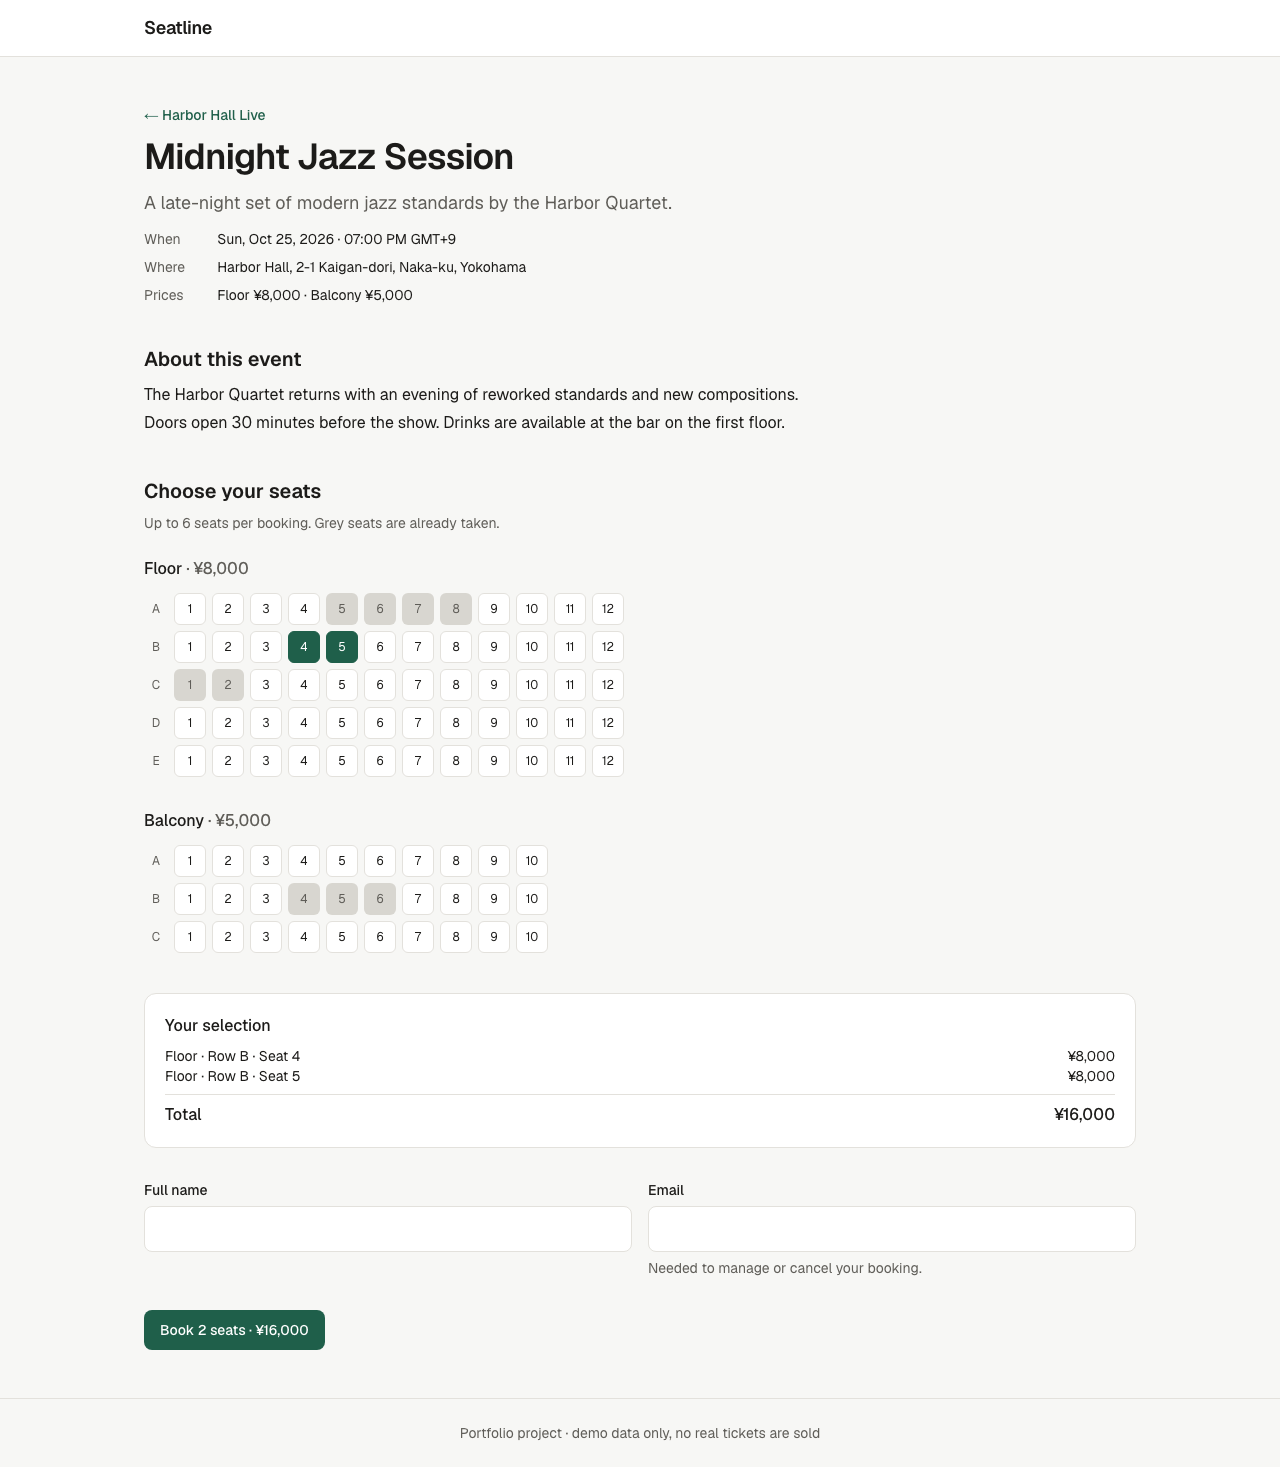
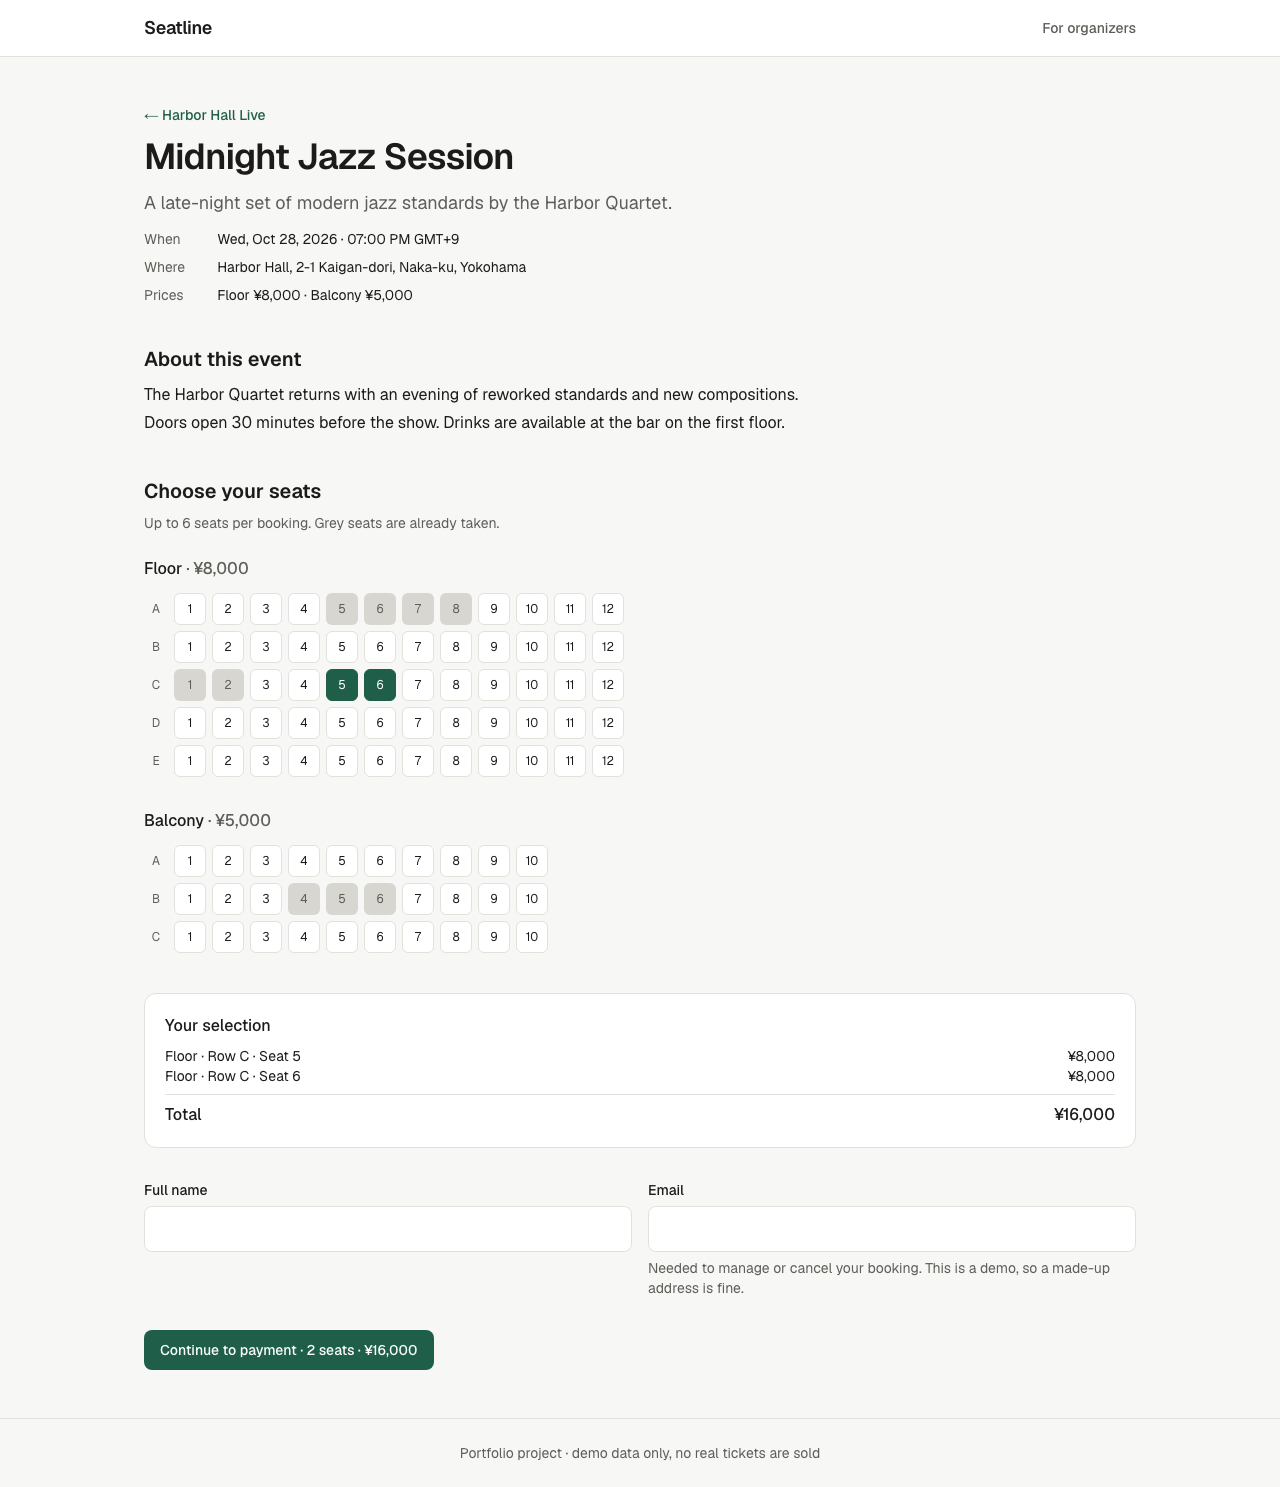
Refresh the screenshots, add a walkthrough and Lighthouse results
- scripts/capture-docs.mjs regenerates every image in docs/ from a seeded
  production build (waits for CSS transitions, phone at 1x pixels)
- docs/demo.webp: animated walkthrough from seats to ticket (97 KB)
- New screenshots of the ticket with its QR code and the dashboard
- README: architecture diagram with payments, webhook, auth and outbox;
  test table, bugs found by the tests, and a performance section that
  explains the SEO 91 (streaming metadata) instead of hiding it

diff --git a/README.md b/README.md
@@ -13,12 +13,18 @@ API: [`/api/v1/openapi.json`](https://event-booking-saas.vercel.app/api/v1/opena
 (demo data, reset every Monday; use any made-up name and email) ·
 Organizer dashboard: [`/login`](https://event-booking-saas.vercel.app/login), demo accounts listed there
 
-![Event page with seat map](docs/event-page-desktop.png)
+![Booking walkthrough: choosing seats, paying on the demo checkout, and the ticket with its QR code](docs/demo.webp)
 
 <details>
-<summary>Mobile view</summary>
+<summary>More screenshots: event page, phone, ticket, organizer dashboard</summary>
+
+![Event page with seat map](docs/event-page-desktop.png)
 
 ![Event page on a phone](docs/event-page-mobile.png)
+
+![Booking confirmation with the ticket QR code and the demo inbox](docs/booking-ticket.png)
+
+![Organizer dashboard with sales per event](docs/dashboard.png)
 
 </details>
 
@@ -53,15 +59,20 @@ flowchart LR
   Browser -->|"GET pages"| Pages["Server Components<br/>(src/app)"]
   Browser -->|"form submit"| Actions["Server Actions<br/>(actions.ts)"]
   Client["API clients"] -->|"JSON over HTTP"| API["REST API<br/>src/app/api/v1"]
-  Pages --> Queries["Cached reads<br/>src/server/queries.ts<br/>'use cache' + cacheTag"]
-  Pages -->|"seat map, never cached"| Repos
-  API --> Queries
+  Stripe(["Stripe"]) -->|"webhook"| Webhook["Webhook<br/>src/app/api/webhooks"]
+  Pages --> Queries["Cached reads<br/>src/server/queries.ts"]
+  Pages -->|"dashboard"| DAL["Data access layer<br/>src/server/auth/dal.ts"]
   API --> Service
+  Actions --> Service["Booking & payment services<br/>src/server/*-service.ts"]
+  Webhook --> Service
+  DAL --> Repos
   Queries --> Repos["Repositories<br/>src/server/repositories"]
-  Actions --> Service["Booking service<br/>src/server/booking-service.ts"]
-  Actions -->|"updateTag after a booking"| Queries
-  Repos --> DB[(PostgreSQL)]
-  Service -->|"transaction"| DB
+  Service -->|"checkout, refund"| Payments["PaymentProvider<br/>Stripe or demo"]
+  Service -->|"transaction<br/>+ outbox row"| DB[(PostgreSQL)]
+  Repos --> DB
+  Actions -.->|"after()"| Outbox["Email outbox<br/>src/server/email"]
+  Outbox --> DB
+  Outbox -->|"send"| Mail(["Resend or demo inbox"])
 ```
 
 The web pages and the REST API are two entry points into the same service layer:
@@ -297,13 +308,13 @@ shell. An E2E test walks through the booking flow and fails on any CSP violation
 
 | Suite         | Command                             | What it covers                                                                                                                                      |
 | ------------- | ----------------------------------- | --------------------------------------------------------------------------------------------------------------------------------------------------- |
-| Unit          | `npm test`                          | Pricing, validation, booking references, JSON-LD, the booking form component                                                                        |
+| Unit          | `npm test`                          | Pricing, validation, references, JSON-LD, passwords, signed links, CSV, email templates, the booking form with its live seat map, the webhook route |
 | Integration   | `npm run test:integration`          | Booking and payment services against PostgreSQL: races, holds, late payments, refunds, tenancy, rate limits; the Stripe adapter against stripe-mock |
-| E2E           | `npm run test:e2e`                  | Full booking and cancellation flows in Chromium, on a desktop and a mobile viewport                                                                 |
+| E2E           | `npm run test:e2e`                  | Booking, payment, release, refund, email and dashboard flows in Chromium, on a desktop and a mobile viewport, against the production build          |
 | API           | `npm run test:e2e -- --project=api` | REST API contract over real HTTP: status codes, headers, Problem Details, concurrent bookings, tenant isolation                                     |
 | Accessibility | `npx playwright test accessibility` | axe-core WCAG 2.2 A/AA scan of every page type, in light and dark mode, including the form with errors                                              |
 
-CI runs all three on every pull request, plus lint, type check and a Docker build.
+CI runs all of them on every pull request, plus lint, formatting, type check and a Docker build.
 In CI, the E2E tests run against the production build (`node .next/standalone/server.js`).
 
 ### Bugs the tests found during development
@@ -320,6 +331,34 @@ In CI, the E2E tests run against the production build (`node .next/standalone/se
    uses the documented `@tailwindcss/postcss` setup.
 4. **Stale cache after re-seeding.** Re-seeding behind a running server left cached pages
    pointing at deleted rows. The seed now uses fixed IDs.
+5. **A double submit could report "seats taken" for the customer's own booking.** The
+   concurrency test for idempotency keys started failing once seat holds made the
+   transaction a little longer: a duplicate request checked the key before the first one
+   committed, then saw the seats taken. It now checks the key again before answering
+   `SEATS_TAKEN`.
+6. **The API reported a hold's expiry from before the checkout renewed it.** An API test
+   compared `expiresAt` in the booking response with the booking itself and found them
+   14 ms apart.
+7. **Partial Prefetching refused the session check.** The E2E server log showed Next.js
+   rejecting `new Date()` while prerendering the dashboard's App Shell; the session check
+   now opts out of prerendering with `connection()`.
+
+### Performance
+
+Lighthouse on the event page (production build, Lighthouse 12 defaults; mobile uses
+simulated slow 4G and a mid-range phone):
+
+| Device  | Performance | Accessibility | Best practices | SEO | LCP   | CLS | TBT   |
+| ------- | ----------- | ------------- | -------------- | --- | ----- | --- | ----- |
+| Mobile  | 97          | 100           | 100            | 91  | 2.7 s | 0   | 50 ms |
+| Desktop | 100         | 100           | 100            | 91  | 0.6 s | 0   | 0 ms  |
+
+SEO is 91 because of streaming metadata: Next.js 16 does not hold the page back until
+`generateMetadata` finishes, and appends the tags to `<body>` for clients that run
+JavaScript (Googlebot does), while crawlers that cannot (Slack, Facebook) get them in
+`<head>`. Lighthouse only looks in `<head>`. Turning streaming off would trade a real
+benefit for the score. Layout shift was 0.084 before `<main>` got a minimum height of
+one screen: the footer jumped when the streamed event replaced its shorter skeleton.
 
 ## Deployment
 
@@ -384,6 +423,12 @@ Production-like stack in Docker (migrations run as a one-off job before the app 
 docker compose --profile app up --build
 ```
 
+### Screenshots
+
+The images in `docs/` come from [`scripts/capture-docs.mjs`](scripts/capture-docs.mjs),
+run against the production build with freshly seeded data, so they can be regenerated
+after UI changes.
+
 ## Project structure
 
 ```
@@ -401,6 +446,7 @@ src/server/payments/     payment provider interface, Stripe and demo providers, 
 src/proxy.ts             redirects requests without a session cookie to the login page
 test/integration/        database test setup and factories
 e2e/                     Playwright tests
+scripts/                 screenshot capture for the docs
 ```
 
 ## Built with AI assistance
